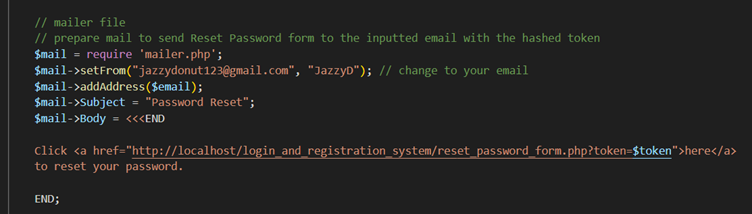
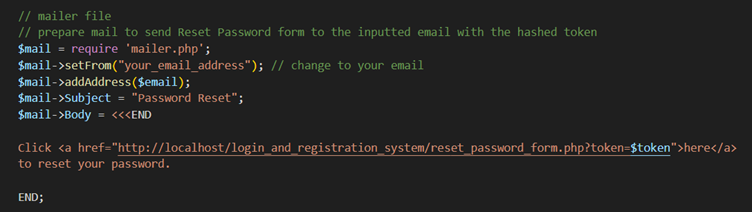
Fix Credentials Leak

Changed region(s): [[0.0, 0.0566, 0.7952, 0.5943], [0.0, 0.6509, 0.9787, 0.8208], [0.0, 0.9057, 0.0918, 0.9623]]

diff --git a/mailer.php b/mailer.php
@@ -16,7 +16,7 @@
     $mail->SMTPAuth = TRUE;
     $mail->SMTPSecure = 'tls';
     $mail->Port = 587;
-    $mail->Username = "jazzydonut123@gmail.com"; // Email sender; change to your email
+    $mail->Username = "your_email_address_here"; // Email sender; change to your email
 
     // Password -> acquire from Google Account in the Security section
     // 1. Go to your Google account: https://myaccount.google.com/security?hl=en
@@ -24,7 +24,7 @@
     // 3. Once 2-step verification is turned on, search for app passwords
     // 4. Google will ask you to enter a name for the app; just type in any name
     // 5. Once you confirmed, Google will generate a password; use that password and type it below (remove the spaces)
-    $mail->Password = "xgmjltebiaonygvr";
+    $mail->Password = "your_password_here";
     $mail->Host = "smtp.gmail.com";
     $mail->Mailer = "smtp";
     $mail->isHTML(true);

diff --git a/login.php b/login.php
@@ -59,7 +59,7 @@
                         // mailer file
                         // prepare mail to send OTP to the inputted email
                         $mail = require 'mailer.php';
-                        $mail->setFrom("jazzydonut123@gmail.com", "JazzyD"); // change to your email
+                        $mail->setFrom("your_email_address"); // change to your email
                         $mail->addAddress($email);
                         $mail->Subject = "Verify OTP";
                         $mail->Body = <<<END

diff --git a/forgot_password.php b/forgot_password.php
@@ -35,7 +35,7 @@
                 // mailer file
                 // prepare mail to send Reset Password form to the inputted email with the hashed token
                 $mail = require 'mailer.php';
-                $mail->setFrom("jazzydonut123@gmail.com", "JazzyD"); // change to your email
+                $mail->setFrom("your_email_address"); // change to your email
                 $mail->addAddress($email);
                 $mail->Subject = "Password Reset";
                 $mail->Body = <<<END

diff --git a/registration_form.php b/registration_form.php
@@ -69,7 +69,7 @@
                     6. Fill the domain with localhost if you are running the program in your laptop using XAMPP
                     7. Click submit, then it will display the site key
                     8. Copy the site-key and paste it here -->
-                    <div class="g-recaptcha" data-sitekey="6LelC1wpAAAAAMxhJsnbHr0T67QBmyO9_-m6K5rV"></div>
+                    <div class="g-recaptcha" data-sitekey="your_site_key"></div>
                 </div>
             </div>
 
